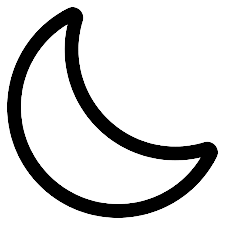
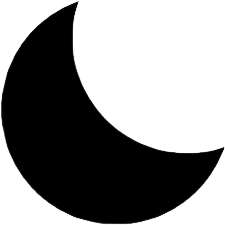
Big UI changes, Dark mode/ Light mode theme change working

diff --git a/src/main/java/com/example/calendertest2/HelloController.java b/src/main/java/com/example/calendertest2/HelloController.java
@@ -1,10 +1,8 @@
 package com.example.calendertest2;
 
 import javafx.fxml.FXML;
-import javafx.scene.control.CheckBox;
-import javafx.scene.control.ColorPicker;
-import javafx.scene.control.Label;
-import javafx.scene.control.TextField;
+import javafx.scene.control.*;
+import javafx.scene.image.Image;
 import javafx.scene.image.ImageView;
 import javafx.scene.layout.GridPane;
 import javafx.scene.layout.HBox;
@@ -24,7 +22,17 @@ public class HelloController {
     @FXML
     private VBox vContainer;
     @FXML
+    private HBox titleBar;
+    @FXML
+    private Label titleLabel;
+    @FXML
     private HBox menuHbox;
+    @FXML
+    private ImageView upArrow;
+    @FXML
+    private ImageView downArrow;
+    @FXML
+    private ImageView moonIcon;
     @FXML
     private Label monthLabel;
     @FXML
@@ -42,6 +50,8 @@ public class HelloController {
     @FXML
     private CheckBox markerGiftCheck;
     @FXML
+    private Label markerInfoClose;
+    @FXML
     private GridPane markerEditInfoBar;
     @FXML
     private TextField markerEditNameField;
@@ -51,6 +61,26 @@ public class HelloController {
     private CheckBox markerEditNotifCheck;
     @FXML
     private CheckBox markerEditGiftCheck;
+    @FXML
+    private Label markerEditInfoClose;
+    @FXML
+    private Label addBirthdayLabel;
+    @FXML
+    private Label editBirthdayLabel;
+    @FXML
+    private Label nameLabel;
+    @FXML
+    private Label nameEditLabel;
+    @FXML
+    private Label colourLabel;
+    @FXML
+    private Label colourEditLabel;
+    @FXML
+    private Button userFinishButton;
+    @FXML
+    private Button userEditButton;
+    @FXML
+    private Button userDeleteButton;
 
     //  Month and Days Arrays
     String[] monthsArray = {"Jan", "Feb", "Mar", "Apr", "May", "Jun", "Jul","Aug", "Sep", "Oct", "Nov", "Dec"};
@@ -80,10 +110,13 @@ public class HelloController {
     //Initialise birthday marker that has been currently clicked
     BirthdayMarker currentBDaymarker;
 
+    // Current theme, checked when theme is changed to apply opposite settings to current theme
+    String currentTheme = "light";
+
     @FXML
     public void initialize(){
         readBDayMarkerCSV();
-        setCalender(cDay, cDayAsNum, cMonth, cYear);
+        changeTheme();
         markerInfoBar.setVisible(false);
         markerInfoBar.managedProperty().bind(markerInfoBar.visibleProperty());
         markerEditInfoBar.setVisible(false);
@@ -173,13 +206,18 @@ public class HelloController {
 //          Add the day to the grid with event setup
             Label l1 = new Label(String.valueOf(dayAsNum));
             l1.setId("day"+dayAsNum);
+            if(currentTheme.equals("light")){
+                l1.setTextFill(Color.web("#000000"));
+            }else{
+                l1.setTextFill(Color.web("#FEFEFE"));
+            }
             VBox v1 = new VBox();
             v1.setId("grid"+dayAsNum);
             v1.getStyleClass().add("dayGridStyle");
             v1.getChildren().add(l1);
             v1.setOnMouseClicked(e -> { dayClicked(v1,l1); });
 
-            // Search through the bday marker array for bdays matching the current date and add them to the calender
+            // Search through the bday marker array for bdays matching the current date and add them to the calendar
             for(int i=0; i<bdayMarkers.size(); i++){
                 if(dayAsNum == Integer.parseInt(bdayMarkers.get(i).day) && month.equals(bdayMarkers.get(i).month) && year.equals(bdayMarkers.get(i).year)){
                     Label l2 = new Label(bdayMarkers.get(i).name);
@@ -205,7 +243,13 @@ public class HelloController {
     // Writes Mon-Sun in the grid
     public void setWeekDays(){
         for(int i=0; i<daysArray.length; i++){
-            calenderGrid.add(new Label(daysArray[i]), i, 0);
+            Label dayLabel = new Label(daysArray[i]);
+            if(currentTheme.equals("light")){
+                dayLabel.setTextFill(Color.web("#000000"));
+            }else{
+                dayLabel.setTextFill(Color.web("#FEFEFE"));
+            }
+            calenderGrid.add(dayLabel, i, 0);
         }
     }
 
@@ -325,7 +369,12 @@ public class HelloController {
         markerInfoBar.setVisible(true);
         currentDayNode=v1;
         currentDayLabel=l1;
-        currentDayNode.setStyle("-fx-background-color: #ADD8E6;");
+        if(currentTheme=="light"){
+            currentDayNode.setStyle("-fx-background-color: #CEE8F0;");
+        }else{
+            currentDayNode.setStyle("-fx-background-color: #BB86FC;");
+        }
+
     }
 
     public void closeNode(){
@@ -411,11 +460,70 @@ public class HelloController {
             }
             fw.close();
         } catch (Exception e) {}
+
+        calenderGrid.getChildren().clear();
+        setCalender(cDay, cDayAsNum, cMonth, cYear);
     }
 
+    //Change colour of theme based on current theme
     public void changeTheme(){
-        vContainer.setStyle("-fx-background-color: #020000;");
-        monthLabel.setTextFill(Color.web("#CCCCCC"));
-        yearLabel.setTextFill(Color.web("#CCCCCC"));
+        String primaryBackgroundColour;
+        String secondaryBackgroundColour;
+        String tertiaryBackgroundColour;
+        String primaryTextColour;
+        String secondaryTextColour = "#000000";
+
+        if(currentTheme.equals("light")){
+            primaryBackgroundColour = "-fx-background-color: #121212;";
+            secondaryBackgroundColour = "-fx-background-color: #282828;";
+            tertiaryBackgroundColour = "-fx-background-color: #BB86FC;";
+            primaryTextColour = "#FEFEFE";
+            moonIcon.setImage(new Image(getClass().getResourceAsStream("img/WhiteMoon.png")));
+            upArrow.setImage(new Image(getClass().getResourceAsStream("img/upArrowWhite.png")));
+            downArrow.setImage(new Image(getClass().getResourceAsStream("img/downArrowWhite.png")));
+            currentTheme="dark";
+        }else{
+            primaryBackgroundColour = "-fx-background-color: #FEFEFE;";
+            secondaryBackgroundColour = "-fx-background-color: #E8E8E8;";
+            tertiaryBackgroundColour = "-fx-background-color: #CEE8F0;";
+            primaryTextColour = "#000000";
+            moonIcon.setImage(new Image(getClass().getResourceAsStream("img/moon.png")));
+            upArrow.setImage(new Image(getClass().getResourceAsStream("img/upArrow.png")));
+            downArrow.setImage(new Image(getClass().getResourceAsStream("img/downArrow.png")));
+            currentTheme="light";
+        }
+        vContainer.setStyle(primaryBackgroundColour);
+        monthLabel.setTextFill(Color.web(primaryTextColour));
+        yearLabel.setTextFill(Color.web(primaryTextColour));
+        addBirthdayLabel.setTextFill(Color.web(primaryTextColour));
+        editBirthdayLabel.setTextFill(Color.web(primaryTextColour));
+        nameLabel.setTextFill(Color.web(primaryTextColour));
+        nameEditLabel.setTextFill(Color.web(primaryTextColour));
+        colourLabel.setTextFill(Color.web(primaryTextColour));
+        colourEditLabel.setTextFill(Color.web(primaryTextColour));
+        userFinishButton.setTextFill(Color.web(secondaryTextColour));
+        userEditButton.setTextFill(Color.web(secondaryTextColour));
+        userDeleteButton.setTextFill(Color.web(secondaryTextColour));
+        userFinishButton.setStyle(tertiaryBackgroundColour);
+        userEditButton.setStyle(tertiaryBackgroundColour);
+        userDeleteButton.setStyle(tertiaryBackgroundColour);
+        markerNotifCheck.setTextFill(Color.web(primaryTextColour));
+        markerEditNotifCheck.setTextFill(Color.web(primaryTextColour));
+        markerGiftCheck.setTextFill(Color.web(primaryTextColour));
+        markerEditGiftCheck.setTextFill(Color.web(primaryTextColour));
+        markerNameField.setStyle(tertiaryBackgroundColour);
+        markerEditNameField.setStyle(tertiaryBackgroundColour);
+        markerColourPicker.setStyle(tertiaryBackgroundColour);
+        markerEditColourPicker.setStyle(tertiaryBackgroundColour);
+        markerInfoBar.setStyle(secondaryBackgroundColour);
+        markerEditInfoBar.setStyle(secondaryBackgroundColour);
+        titleBar.setStyle(secondaryBackgroundColour);
+        menuHbox.setStyle(secondaryBackgroundColour);
+        titleLabel.setTextFill(Color.web(primaryTextColour));
+        markerInfoClose.setTextFill(Color.web(primaryTextColour));
+        markerEditInfoClose.setTextFill(Color.web(primaryTextColour));
+
+        calenderGrid.getChildren().clear();
+        setCalender(cDay, cDayAsNum, cMonth, cYear);
     }
 }
